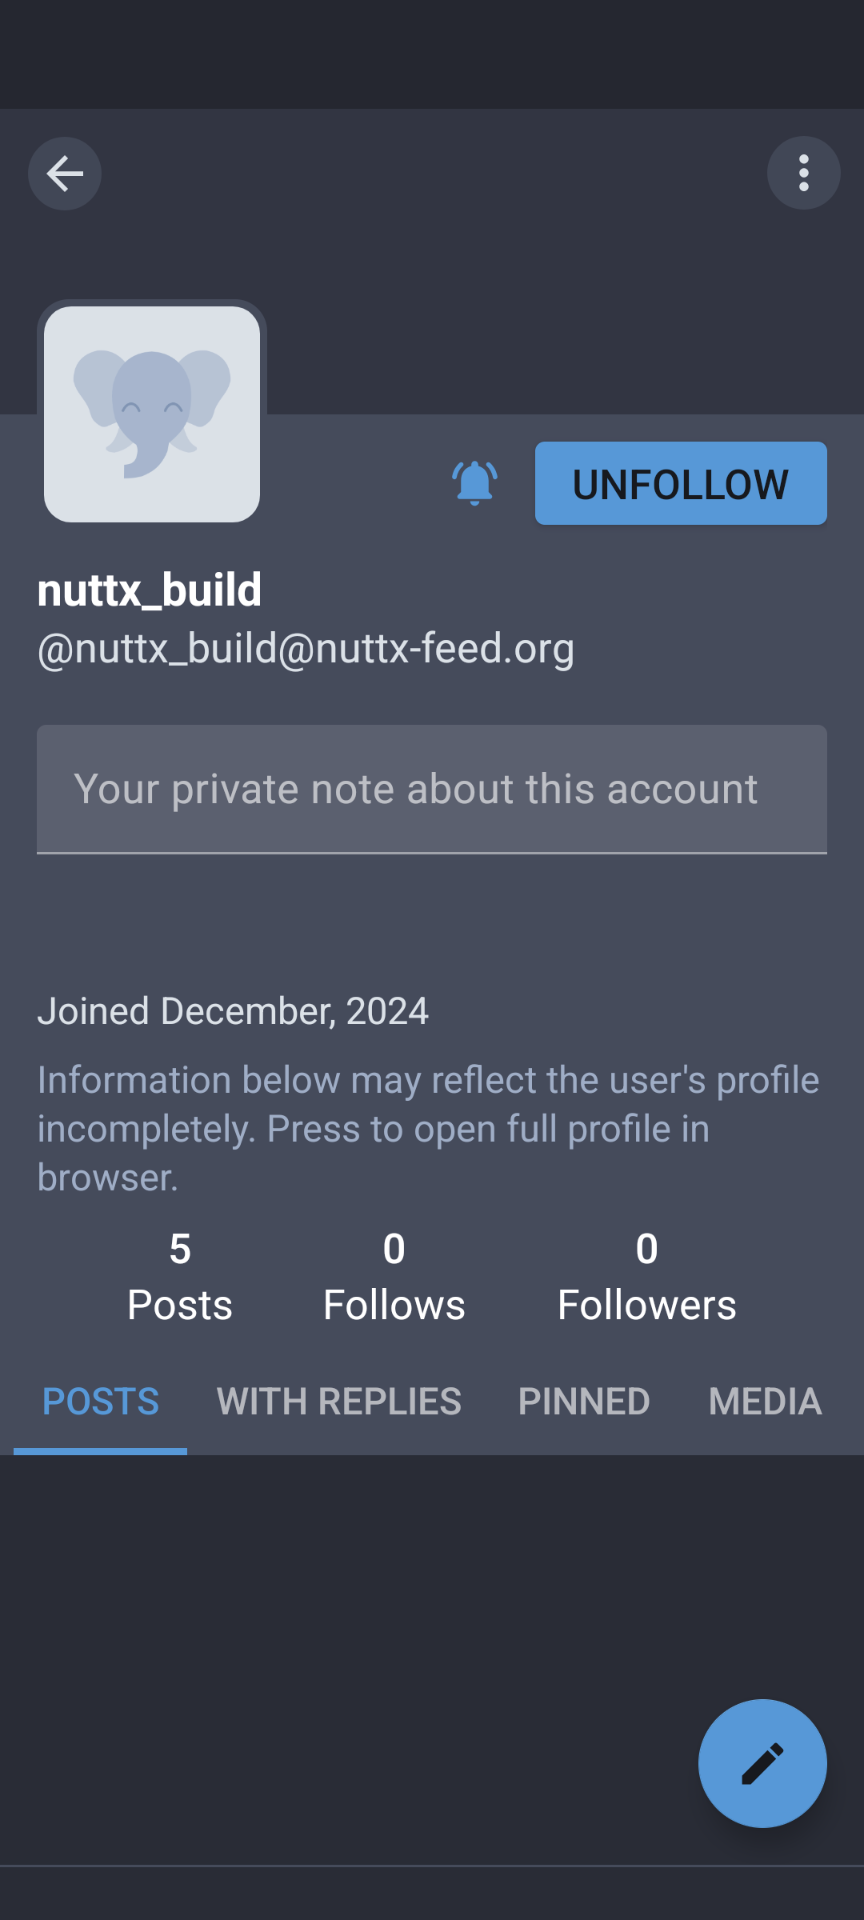
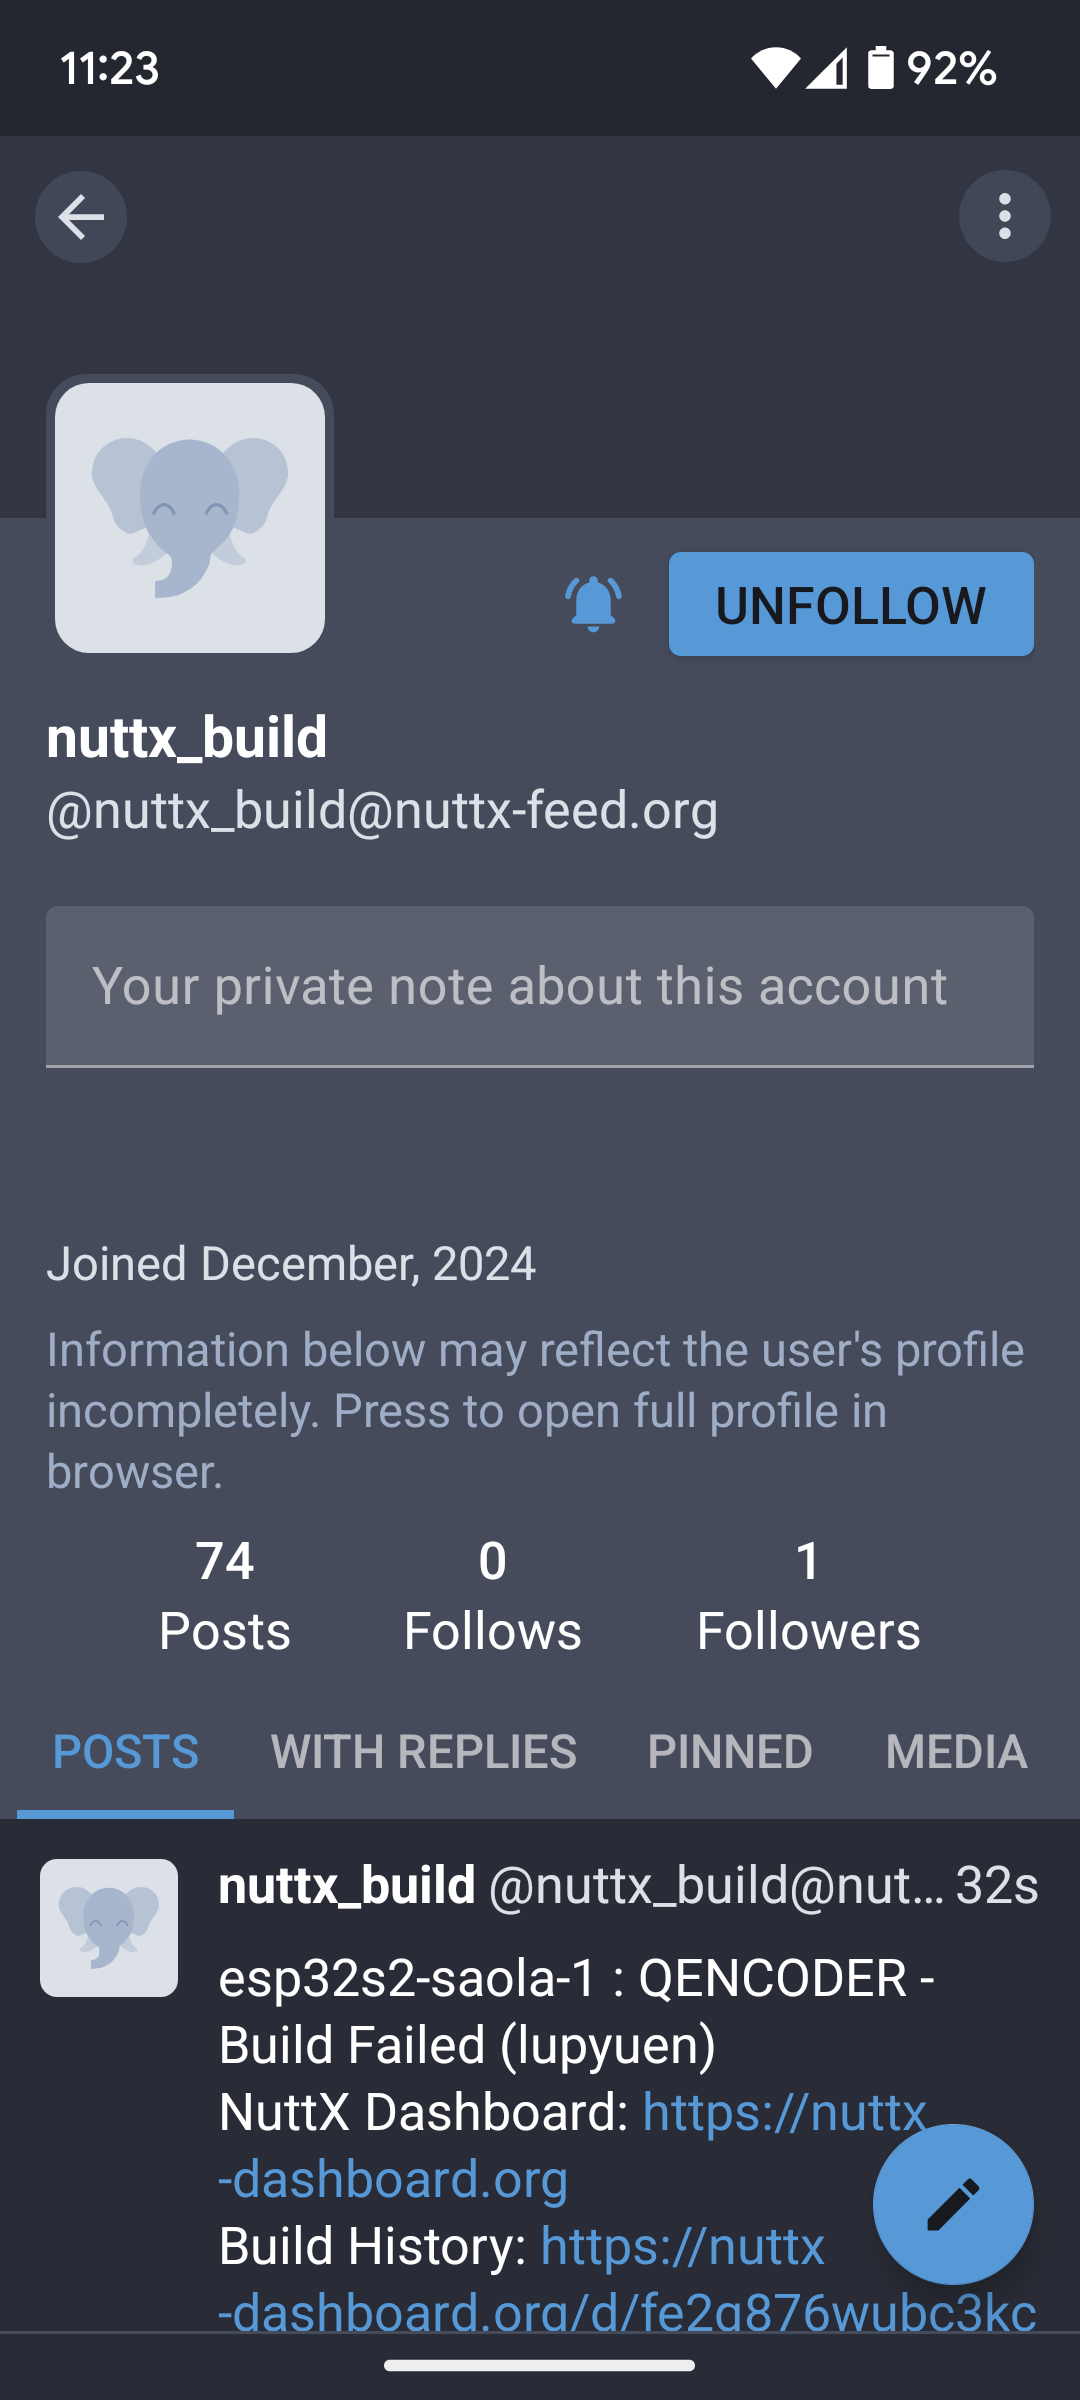
Update article

diff --git a/src/mastodon.md b/src/mastodon.md
@@ -10,23 +10,13 @@ We're out for an [__overnight hike__](https://www.strava.com/activities/13055019
 
 Can we be 100% sure that __NuttX is OK?__ Without getting spammed by __alert emails__ all night? (Sorry we got zero budget for _"paging duty"_ services)
 
-TODO: Pic of mobile 
-
-TODO: mastodon-mobile3.png
-
 ![TODO](https://lupyuen.github.io/images/mastodon-mobile3.png)
 
-TODO: mastodon-mobile4.png
+TODO: In this article we talk about Mastodon 
 
-![TODO](https://lupyuen.github.io/images/mastodon-mobile4.png)
+- TODO
 
-TODO: mastodon-mobile5.png
-
-![TODO](https://lupyuen.github.io/images/mastodon-mobile5.png)
-
-in this article we talk about Mastodon 
-
-TODO: Pic of search
+![TODO](https://lupyuen.github.io/images/mastodon-mobile1.png)
 
 # Mastodon for NuttX CI
 
@@ -44,9 +34,9 @@ TODO: Pic of search
 
 1.  Tap the __Follow__ button. And the __Notify__ button beside it.
 
-1.  That's all! When a NuttX Build Fails, we'll see a __Notification in the Mastodon App__ (linking to NuttX Build History)...
+1.  That's all! When a NuttX Build Fails, we'll see a __Notification in the Mastodon App__ (linking to NuttX Build History)
 
-TODO: Pic of notification
+![TODO](https://lupyuen.github.io/images/mastodon-mobile3.png)
 
 _How did we get the Failed NuttX Builds?_
 
@@ -57,26 +47,6 @@ Failed Builds are auto-escalated to the [__NuttX Dashboard__](TODO). (Grafana + 
 In a while, we'll explain how the Failed Builds are channeled from NuttX Dashboard into __Mastodon Posts__.
 
 First we talk about Mastodon...
-
-TODO: mastodon-mobile1.png
-
-![TODO](https://lupyuen.github.io/images/mastodon-mobile1.png)
-
-TODO: mastodon-mobile2.png
-
-![TODO](https://lupyuen.github.io/images/mastodon-mobile2.png)
-
-TODO: mastodon-mobile3.png
-
-![TODO](https://lupyuen.github.io/images/mastodon-mobile3.png)
-
-TODO: mastodon-mobile4.png
-
-![TODO](https://lupyuen.github.io/images/mastodon-mobile4.png)
-
-TODO: mastodon-mobile5.png
-
-![TODO](https://lupyuen.github.io/images/mastodon-mobile5.png)
 
 # Our Mastodon Server
 
